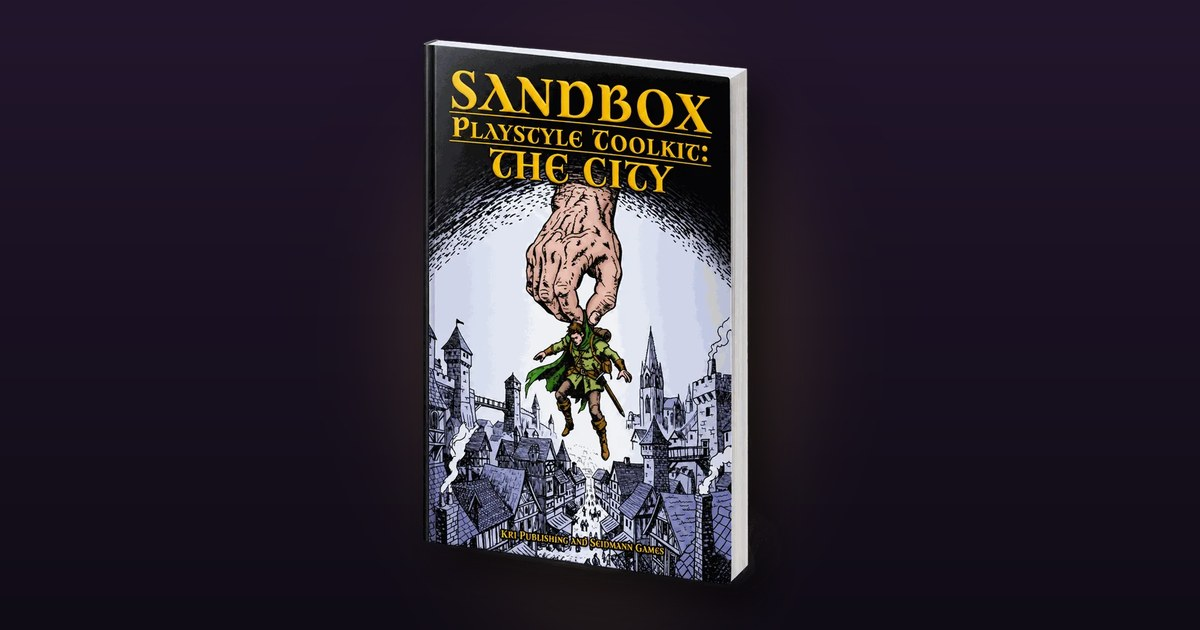
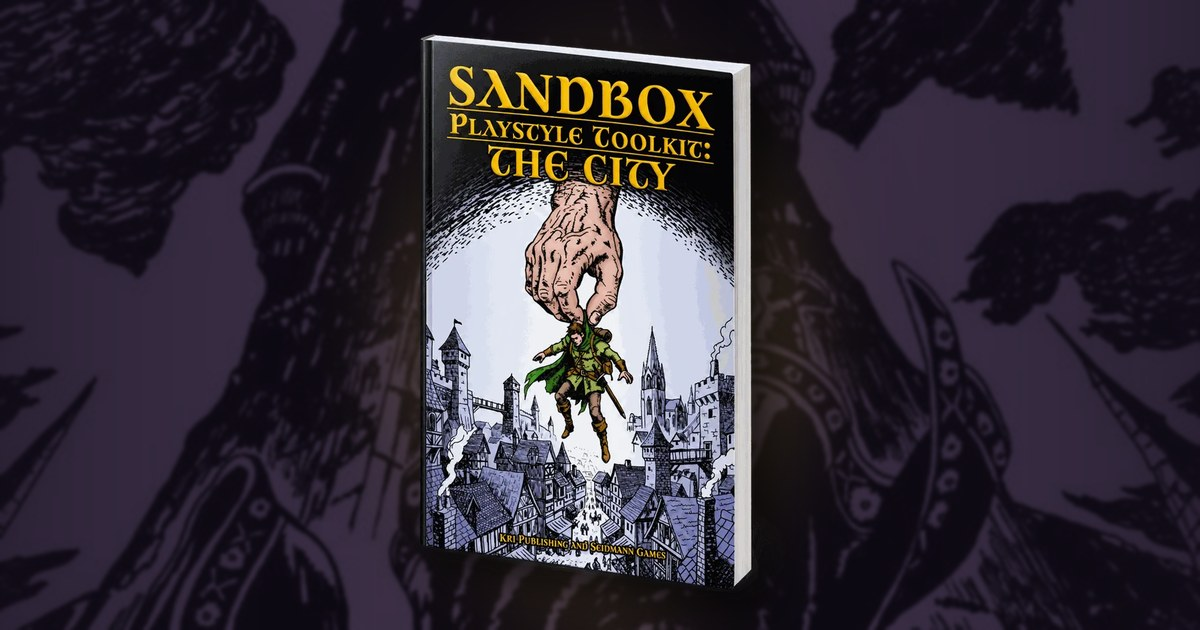
Sandbox share image with art background; swap private WM video, relabel creator interview
Claude-Session: https://claude.ai/code/session_01Go6ret7jCLgDqqds4EMTee

diff --git a/westmarches.html b/westmarches.html
@@ -266,7 +266,7 @@ footer a:hover{text-decoration:underline}
 </div></section>
 <section class="band" id="videos"><div class="in">
   <div class="center"><div class="kicker">On YouTube</div><h2>What reviewers <em>say about it</em></h2><p class="lead narrow">GMs and reviewers who have run the method at their own tables.</p></div>
-  <div class="vids" style="--n:3"><div class="vid"><button class="yt" type="button" data-id="4mcCUAqyypw" aria-label="Play video: This Book Makes West Marches Finally Click!"><img src="https://i.ytimg.com/vi/4mcCUAqyypw/hqdefault.jpg" alt="" width="480" height="360" loading="lazy"><span></span></button><p>This Book Makes West Marches Finally Click!<small>Guidebook review</small></p></div><div class="vid"><button class="yt" type="button" data-id="aq7HTPSwgmk" aria-label="Play video: West Marches Campaign Guidebook"><img src="https://i.ytimg.com/vi/aq7HTPSwgmk/hqdefault.jpg" alt="" width="480" height="360" loading="lazy"><span></span></button><p>West Marches Campaign Guidebook<small>Guidebook</small></p></div><div class="vid"><button class="yt" type="button" data-id="Pe1ZIjpYdP8" aria-label="Play video: West Marches Campaign Playstyle Guidebook Reviewed"><img src="https://i.ytimg.com/vi/Pe1ZIjpYdP8/hqdefault.jpg" alt="" width="480" height="360" loading="lazy"><span></span></button><p>West Marches Campaign Playstyle Guidebook Reviewed<small>The Gaming Gang</small></p></div><div class="vid"><button class="yt" type="button" data-id="yRb7rp792ck" aria-label="Play video: West Marches GM, Player and Party Guides Review"><img src="https://i.ytimg.com/vi/yRb7rp792ck/hqdefault.jpg" alt="" width="480" height="360" loading="lazy"><span></span></button><p>West Marches GM, Player and Party Guides Review<small>The three working books</small></p></div><div class="vid"><button class="yt" type="button" data-id="Vq6S3DZZoI8" aria-label="Play video: West Marches Campaign Playstyle Guidebook"><img src="https://i.ytimg.com/vi/Vq6S3DZZoI8/hqdefault.jpg" alt="" width="480" height="360" loading="lazy"><span></span></button><p>West Marches Campaign Playstyle Guidebook<small>Guidebook</small></p></div><div class="vid"><button class="yt" type="button" data-id="__NGfKx0SsA" aria-label="Play video: Live interview with Karl Otto Kristoffersen"><img src="https://i.ytimg.com/vi/__NGfKx0SsA/hqdefault.jpg" alt="" width="480" height="360" loading="lazy"><span></span></button><p>Live interview with Karl Otto Kristoffersen<small>About the Guidebook</small></p></div></div>
+  <div class="vids" style="--n:3"><div class="vid"><button class="yt" type="button" data-id="IDqP8XjpUDs" aria-label="Play video: West Marches Campaign Playstyle Guidebook First Look"><img src="https://i.ytimg.com/vi/IDqP8XjpUDs/hqdefault.jpg" alt="" width="480" height="360" loading="lazy"><span></span></button><p>West Marches Campaign Playstyle Guidebook First Look<small>The Gaming Gang Dispatch</small></p></div><div class="vid"><button class="yt" type="button" data-id="aq7HTPSwgmk" aria-label="Play video: West Marches Campaign Guidebook"><img src="https://i.ytimg.com/vi/aq7HTPSwgmk/hqdefault.jpg" alt="" width="480" height="360" loading="lazy"><span></span></button><p>West Marches Campaign Guidebook<small>Guidebook</small></p></div><div class="vid"><button class="yt" type="button" data-id="Pe1ZIjpYdP8" aria-label="Play video: West Marches Campaign Playstyle Guidebook Reviewed"><img src="https://i.ytimg.com/vi/Pe1ZIjpYdP8/hqdefault.jpg" alt="" width="480" height="360" loading="lazy"><span></span></button><p>West Marches Campaign Playstyle Guidebook Reviewed<small>The Gaming Gang</small></p></div><div class="vid"><button class="yt" type="button" data-id="yRb7rp792ck" aria-label="Play video: West Marches GM, Player and Party Guides Review"><img src="https://i.ytimg.com/vi/yRb7rp792ck/hqdefault.jpg" alt="" width="480" height="360" loading="lazy"><span></span></button><p>West Marches GM, Player and Party Guides Review<small>The three working books</small></p></div><div class="vid"><button class="yt" type="button" data-id="Vq6S3DZZoI8" aria-label="Play video: West Marches Campaign Playstyle Guidebook"><img src="https://i.ytimg.com/vi/Vq6S3DZZoI8/hqdefault.jpg" alt="" width="480" height="360" loading="lazy"><span></span></button><p>West Marches Campaign Playstyle Guidebook<small>Guidebook</small></p></div><div class="vid"><button class="yt" type="button" data-id="__NGfKx0SsA" aria-label="Play video: Creator interview with Karl Otto Kristoffersen"><img src="https://i.ytimg.com/vi/__NGfKx0SsA/hqdefault.jpg" alt="" width="480" height="360" loading="lazy"><span></span></button><p>Creator interview with Karl Otto Kristoffersen<small>On making games, West Marches included</small></p></div></div>
   <p class="note center" style="margin-top:20px">Videos made by reviewers and creators on YouTube. They load from YouTube when you press play.</p>
 </div></section>
 <script>document.querySelectorAll('.yt').forEach(function(b){b.addEventListener('click',function(){var f=document.createElement('iframe');f.src='https://www.youtube-nocookie.com/embed/'+b.dataset.id+'?autoplay=1&rel=0';f.allow='autoplay; encrypted-media; picture-in-picture';f.allowFullscreen=true;f.title=b.getAttribute('aria-label');b.replaceWith(f);});});</script>
@@ -287,7 +287,7 @@ footer a:hover{text-decoration:underline}
 </div></section>
 <section id="more"><div class="in">
   <div class="center"><div class="kicker">More from KR1</div><h2>Other books on the same shelf</h2></div>
-  <div class="more"><a href="/hexcrawl"><img src="/img/series/og-hexcrawl.jpg?v=3" alt="" loading="lazy" width="1200" height="630"><span>Hexcrawl<small>Wilderness exploration</small></span></a><a href="/grunder"><img src="/img/series/og-grunder.jpg?v=2" alt="" loading="lazy" width="1200" height="630"><span>Gr&uuml;nder<small>A one-shot OSR adventure</small></span></a><a href="/sandbox"><img src="/img/series/og-sandbox.jpg" alt="" loading="lazy" width="1200" height="630"><span>Sandbox Toolkit: The City<small>Cities that generate play</small></span></a><a href="/ashborn"><img src="/img/ashborn/og-ashborn.jpg" alt="" loading="lazy" width="1200" height="630"><span>Ashborn<small>Coming to BackerKit 2027</small></span></a></div>
+  <div class="more"><a href="/hexcrawl"><img src="/img/series/og-hexcrawl.jpg?v=3" alt="" loading="lazy" width="1200" height="630"><span>Hexcrawl<small>Wilderness exploration</small></span></a><a href="/grunder"><img src="/img/series/og-grunder.jpg?v=2" alt="" loading="lazy" width="1200" height="630"><span>Gr&uuml;nder<small>A one-shot OSR adventure</small></span></a><a href="/sandbox"><img src="/img/series/og-sandbox.jpg?v=2" alt="" loading="lazy" width="1200" height="630"><span>Sandbox Toolkit: The City<small>Cities that generate play</small></span></a><a href="/ashborn"><img src="/img/ashborn/og-ashborn.jpg" alt="" loading="lazy" width="1200" height="630"><span>Ashborn<small>Coming to BackerKit 2027</small></span></a></div>
 </div></section>
 <footer><div class="in">
   <div class="cred">Written and designed by Karl Otto Kristoffersen &middot; Published by KR1 Publishing</div>

diff --git a/index.html b/index.html
@@ -526,7 +526,7 @@
       <a href="/westmarches"><img src="/img/series/og-westmarches.jpg?v=2" alt="The four West Marches books" loading="lazy"><div class="pjb"><div class="pk">Four books &middot; 8,200+ sold</div><h3>West Marches</h3><p>Run one open campaign for more players than fit at your table. The Guidebook, the GM Workbook, the Party Ledger and the Player Journal.</p><span class="go">See West Marches &rarr;</span></div></a>
       <a href="/hexcrawl"><img src="/img/series/og-hexcrawl.jpg?v=3" alt="The four Hexcrawl books by Matthijs Holter" loading="lazy"><div class="pjb"><div class="pk">Four books &middot; 6,900+ sold</div><h3>Hexcrawl</h3><p>Wilderness campaigns where the journey is the adventure. Campaign Style, Encounter Design, Worldbuilding Design and The Thornwall Frontier.</p><span class="go">See Hexcrawl &rarr;</span></div></a>
       <a href="/grunder"><img src="/img/series/og-grunder.jpg?v=2" alt="Gr&uuml;nder: Business Adventure Game" loading="lazy"><div class="pjb"><div class="pk">OSR one-shot</div><h3>Gr&uuml;nder</h3><p>Grab a serial killer's hoard before thirty soldiers do. Whatever you carry out is your start-up capital. Into the Odd rules.</p><span class="go">See Gr&uuml;nder &rarr;</span></div></a>
-      <a href="/sandbox"><img src="/img/series/og-sandbox.jpg" alt="Sandbox Playstyle Toolkit: The City" loading="lazy"><div class="pjb"><div class="pk">City generator &middot; 850+ sold</div><h3>Sandbox Toolkit</h3><p>Roll up a living city in minutes: taverns, guilds, temples, shops and 120 street encounters.</p><span class="go">See Sandbox Toolkit &rarr;</span></div></a>
+      <a href="/sandbox"><img src="/img/series/og-sandbox.jpg?v=2" alt="Sandbox Playstyle Toolkit: The City" loading="lazy"><div class="pjb"><div class="pk">City generator &middot; 850+ sold</div><h3>Sandbox Toolkit</h3><p>Roll up a living city in minutes: taverns, guilds, temples, shops and 120 street encounters.</p><span class="go">See Sandbox Toolkit &rarr;</span></div></a>
       <a href="/tale"><img src="/img/tale/og-tale.jpg" alt="Tale, the role-playing game" loading="lazy"><div class="pjb"><div class="pk">PbtA fantasy</div><h3>Tale</h3><p>Young graduates fresh out of the Academy, leaving home to prove themselves. A Powered by the Apocalypse fantasy RPG.</p><span class="go">See Tale &rarr;</span></div></a>
     </div>
   </div>

diff --git a/hexcrawl.html b/hexcrawl.html
@@ -301,7 +301,7 @@ footer a:hover{text-decoration:underline}
 </div></section>
 <section id="more"><div class="in">
   <div class="center"><div class="kicker">More from KR1</div><h2>Other books on the same shelf</h2></div>
-  <div class="more"><a href="/westmarches"><img src="/img/series/og-westmarches.jpg?v=2" alt="" loading="lazy" width="1200" height="630"><span>West Marches<small>Open table campaigns</small></span></a><a href="/grunder"><img src="/img/series/og-grunder.jpg?v=2" alt="" loading="lazy" width="1200" height="630"><span>Gr&uuml;nder<small>A one-shot OSR adventure</small></span></a><a href="/sandbox"><img src="/img/series/og-sandbox.jpg" alt="" loading="lazy" width="1200" height="630"><span>Sandbox Toolkit: The City<small>Cities that generate play</small></span></a><a href="/ashborn"><img src="/img/ashborn/og-ashborn.jpg" alt="" loading="lazy" width="1200" height="630"><span>Ashborn<small>Coming to BackerKit 2027</small></span></a></div>
+  <div class="more"><a href="/westmarches"><img src="/img/series/og-westmarches.jpg?v=2" alt="" loading="lazy" width="1200" height="630"><span>West Marches<small>Open table campaigns</small></span></a><a href="/grunder"><img src="/img/series/og-grunder.jpg?v=2" alt="" loading="lazy" width="1200" height="630"><span>Gr&uuml;nder<small>A one-shot OSR adventure</small></span></a><a href="/sandbox"><img src="/img/series/og-sandbox.jpg?v=2" alt="" loading="lazy" width="1200" height="630"><span>Sandbox Toolkit: The City<small>Cities that generate play</small></span></a><a href="/ashborn"><img src="/img/ashborn/og-ashborn.jpg" alt="" loading="lazy" width="1200" height="630"><span>Ashborn<small>Coming to BackerKit 2027</small></span></a></div>
 </div></section>
 <footer><div class="in">
   <div class="cred">Written by Matthijs Holter &middot; Edited by Karl Otto Kristoffersen &middot; Layout by Michael Sollien &middot; Cover art by Nicolai Str&oslash;m &middot; Published by KR1 Publishing</div>

diff --git a/grunder.html b/grunder.html
@@ -285,7 +285,7 @@ footer a:hover{text-decoration:underline}
 </div></section>
 <section id="more"><div class="in">
   <div class="center"><div class="kicker">More from KR1</div><h2>Other books on the same shelf</h2></div>
-  <div class="more"><a href="/westmarches"><img src="/img/series/og-westmarches.jpg?v=2" alt="" loading="lazy" width="1200" height="630"><span>West Marches<small>Open table campaigns</small></span></a><a href="/hexcrawl"><img src="/img/series/og-hexcrawl.jpg?v=3" alt="" loading="lazy" width="1200" height="630"><span>Hexcrawl<small>Wilderness exploration</small></span></a><a href="/sandbox"><img src="/img/series/og-sandbox.jpg" alt="" loading="lazy" width="1200" height="630"><span>Sandbox Toolkit: The City<small>Cities that generate play</small></span></a><a href="/ashborn"><img src="/img/ashborn/og-ashborn.jpg" alt="" loading="lazy" width="1200" height="630"><span>Ashborn<small>Coming to BackerKit 2027</small></span></a></div>
+  <div class="more"><a href="/westmarches"><img src="/img/series/og-westmarches.jpg?v=2" alt="" loading="lazy" width="1200" height="630"><span>West Marches<small>Open table campaigns</small></span></a><a href="/hexcrawl"><img src="/img/series/og-hexcrawl.jpg?v=3" alt="" loading="lazy" width="1200" height="630"><span>Hexcrawl<small>Wilderness exploration</small></span></a><a href="/sandbox"><img src="/img/series/og-sandbox.jpg?v=2" alt="" loading="lazy" width="1200" height="630"><span>Sandbox Toolkit: The City<small>Cities that generate play</small></span></a><a href="/ashborn"><img src="/img/ashborn/og-ashborn.jpg" alt="" loading="lazy" width="1200" height="630"><span>Ashborn<small>Coming to BackerKit 2027</small></span></a></div>
 </div></section>
 <footer><div class="in">
   <div class="cred">Written, designed and laid out by Petter Fornes &middot; Rules from Into the Odd by Chris McDowall &middot; Published by KR1 Publishing</div>

diff --git a/sandbox.html b/sandbox.html
@@ -10,7 +10,7 @@
 <meta property="og:site_name" content="KR1 Publishing">
 <meta property="og:title" content="Sandbox Playstyle Toolkit: The City. Roll up a living city in minutes">
 <meta property="og:description" content="Sandbox Playstyle Toolkit: The City by Michael Sollien: system-neutral roll tables for cities, taverns, guilds, shops, temples and 120 street encounters. An eight-step city generator for Shadowdark, OSR and 5e. No AI.">
-<meta property="og:image" content="https://www.kr1publishing.com/img/series/og-sandbox.jpg">
+<meta property="og:image" content="https://www.kr1publishing.com/img/series/og-sandbox.jpg?v=2">
 <meta property="og:image:width" content="1200">
 <meta property="og:image:height" content="630">
 <meta property="og:image:alt" content="Sandbox Playstyle Toolkit: The City by KR1 Publishing and Seidmann Games">
@@ -18,7 +18,7 @@
 <meta name="twitter:card" content="summary_large_image">
 <meta name="twitter:title" content="Sandbox Playstyle Toolkit: The City. Roll up a living city in minutes">
 <meta name="twitter:description" content="Sandbox Playstyle Toolkit: The City by Michael Sollien: system-neutral roll tables for cities, taverns, guilds, shops, temples and 120 street encounters. An eight-step city generator for Shadowdark, OSR and 5e. No AI.">
-<meta name="twitter:image" content="https://www.kr1publishing.com/img/series/og-sandbox.jpg">
+<meta name="twitter:image" content="https://www.kr1publishing.com/img/series/og-sandbox.jpg?v=2">
 <meta name="theme-color" content="#140f1c">
 <link rel="icon" href="/img/ashborn/kr1hex.png">
 <link rel="preload" as="image" href="/img/series/sandbox-city.webp" type="image/webp">
